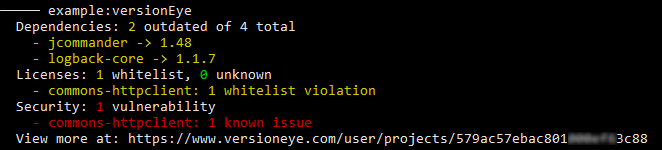
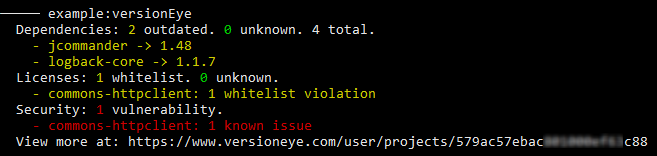
Added unknown dependencies.

diff --git a/src/main/kotlin/net/thauvin/erik/kobalt/plugin/versioneye/VersionEyePlugin.kt b/src/main/kotlin/net/thauvin/erik/kobalt/plugin/versioneye/VersionEyePlugin.kt
@@ -147,10 +147,10 @@ class VersionEyePlugin @Inject constructor(val configActor: ConfigActor<VersionE
     }
 
     private fun versionEyeUpdate(name: String, config: VersionEyeConfig, p: Properties, pom: String): TaskResult {
-        val projectKey = p.getProperty(PROJECT_KEY_PROPERTY)
         val apiKey = p.getProperty(API_KEY_PROPERTY)
         val filePartName: String
         val endPoint: String
+        var projectKey = p.getProperty(PROJECT_KEY_PROPERTY)
 
         // Set endpoint
         if (projectKey.isNullOrBlank()) {
@@ -219,7 +219,8 @@ class VersionEyePlugin @Inject constructor(val configActor: ConfigActor<VersionE
 
             // Get project key
             if (projectKey.isNullOrBlank()) {
-                p.setProperty(PROJECT_KEY_PROPERTY, o.get("id").asString)
+                projectKey = o.get("id").asString
+                p.setProperty(PROJECT_KEY_PROPERTY, projectKey)
             }
 
             // Get deps, license and security counts
@@ -235,6 +236,9 @@ class VersionEyePlugin @Inject constructor(val configActor: ConfigActor<VersionE
             val isFailUnknown = Utils.isFail(config.failSet, Fail.licensesUnknownCheck)
             val isFailSecurity = Utils.isFail(config.failSet, Fail.securityCheck)
 
+            // Unknown dependencies
+            var unknownDeps = 0
+
             // Do nothing if quiet
             if (!config.quiet) {
                 val lf = System.getProperty("line.separator")
@@ -248,15 +252,20 @@ class VersionEyePlugin @Inject constructor(val configActor: ConfigActor<VersionE
                     val depName = dep.get("name").asString
                     val curVer = dep.get("version_current")
 
-                    // Outdated dependencies
-                    if (dep.get("outdated").asBoolean) {
-                        if (!curVer.isJsonNull) {
-                            if (depsInfo.isNotEmpty()) {
-                                depsInfo.append(lf)
-                            }
-                            depsInfo.append(Utils.redLight("    - $depName -> "
-                                    + curVer.asString, out_number, isFailDeps, config.colors))
+                    // Unknown & outdated dependencies
+                    if (curVer.isJsonNull) {
+                        if (depsInfo.isNotEmpty()) {
+                            depsInfo.append(lf)
                         }
+                        unknownDeps++
+                        depsInfo.append(
+                                Utils.redLight("    - $depName -> UNKNOWN", unknownDeps, false, config.colors))
+                    } else if (dep.get("outdated").asBoolean) {
+                        if (depsInfo.isNotEmpty()) {
+                            depsInfo.append(lf)
+                        }
+                        depsInfo.append(Utils.redLight("    - $depName -> "
+                                + curVer.asString, out_number, isFailDeps, config.colors))
                     }
 
                     // Parse licenses
@@ -319,16 +328,17 @@ class VersionEyePlugin @Inject constructor(val configActor: ConfigActor<VersionE
 
                 // Log dependencies check results
                 log(1, "  Dependencies: "
-                        + Utils.redLight(out_number, isFailDeps, config.colors) + " outdated of $dep_number total"
+                        + Utils.redLight(out_number, isFailDeps, config.colors) + " outdated. "
+                        + Utils.redLight(unknownDeps, false, config.colors) + " unknown. $dep_number total."
                         + if (isFailDeps && !config.colors) alt else "")
                 Utils.log(depsInfo, verbose)
 
                 // Log licenses check results
                 log(1, "  Licenses: "
                         + Utils.redLight(licenses_red, isFailLicense, config.colors)
-                        + " whitelist, "
+                        + " whitelist. "
                         + Utils.redLight(licenses_unknown, isFailUnknown, config.colors)
-                        + Utils.plural(" unknown", licenses_unknown, "s")
+                        + Utils.plural(" unknown", licenses_unknown, "s.", ".")
                         + if ((isFailLicense || isFailUnknown) && !config.colors) alt else "")
                 Utils.log(licensesInfo, verbose)
 
@@ -336,7 +346,7 @@ class VersionEyePlugin @Inject constructor(val configActor: ConfigActor<VersionE
                 log(1, "  Security: "
                         + Utils.redLight(sv_count, isFailSecurity, config.colors)
                         + ' '
-                        + Utils.plural("vulnerabilit", sv_count, "ies", "y")
+                        + Utils.plural("vulnerabilit", sv_count, "ies.", "y.")
                         + if (isFailSecurity && !config.colors) alt else "")
                 Utils.log(securityInfo, verbose)
 
